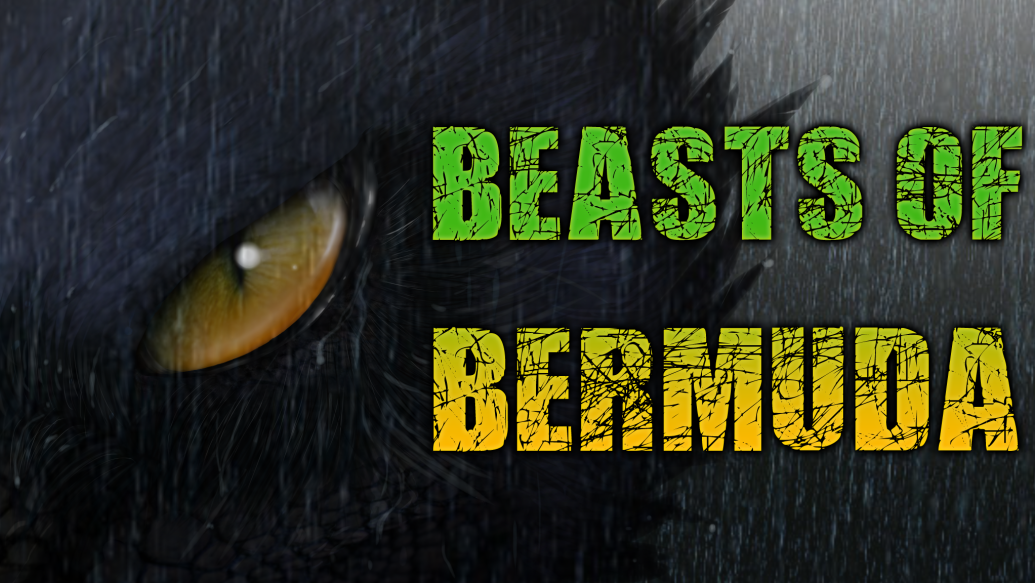
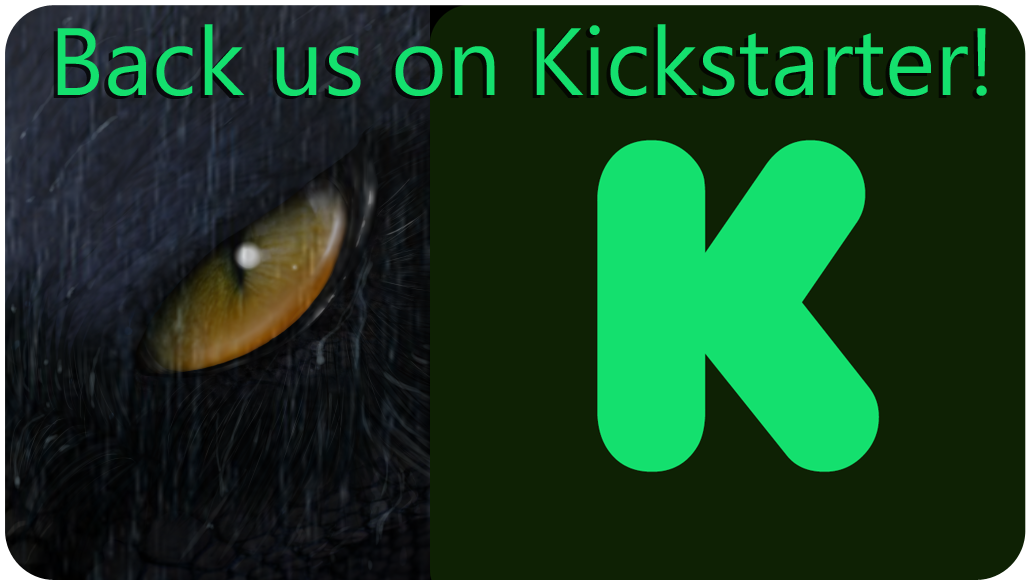
Adding kickstarter link.

diff --git a/main/themes/hugo-creative-theme/static/css/creative.css b/main/themes/hugo-creative-theme/static/css/creative.css
@@ -4,6 +4,27 @@
  * For details, see http://www.apache.org/licenses/LICENSE-2.0.
  */
 
+.kickstarter {
+    background-image: url("../img/BoB_Kickstarter.png");
+    background-size: contain;
+    background-repeat: no-repeat;
+    width: 460px;
+    height: 255px;
+    margin: auto;
+    margin-bottom:35px;
+    display:block;
+    animation: fadein 2s;
+}
+.kickstarter:hover, .kickstarter:active {
+    box-shadow: 0px 0px 5px 5px #14e06e;
+    transition: box-shadow 0.3s ease-in-out;
+}
+
+@keyframes fadein {
+    from { opacity: 0; }
+    to   { opacity: 1; }
+}
+ 
 html,
 body {
     width: 100%;

diff --git a/main/themes/hugo-creative-theme/layouts/partials/hero.html b/main/themes/hugo-creative-theme/layouts/partials/hero.html
@@ -7,6 +7,7 @@
                 <span>{{ .Site.Params.notification.html }}</span>
             </div>
         {{ end }}
+        <a href="https://www.kickstarter.com/projects/1596433999/beasts-of-bermuda" class="kickstarter"></a>
         <div class="header-content-inner">
             {{ with .Site.Params.hero.slogan }}
                 <h1>{{ . | markdownify  }}</h1>
